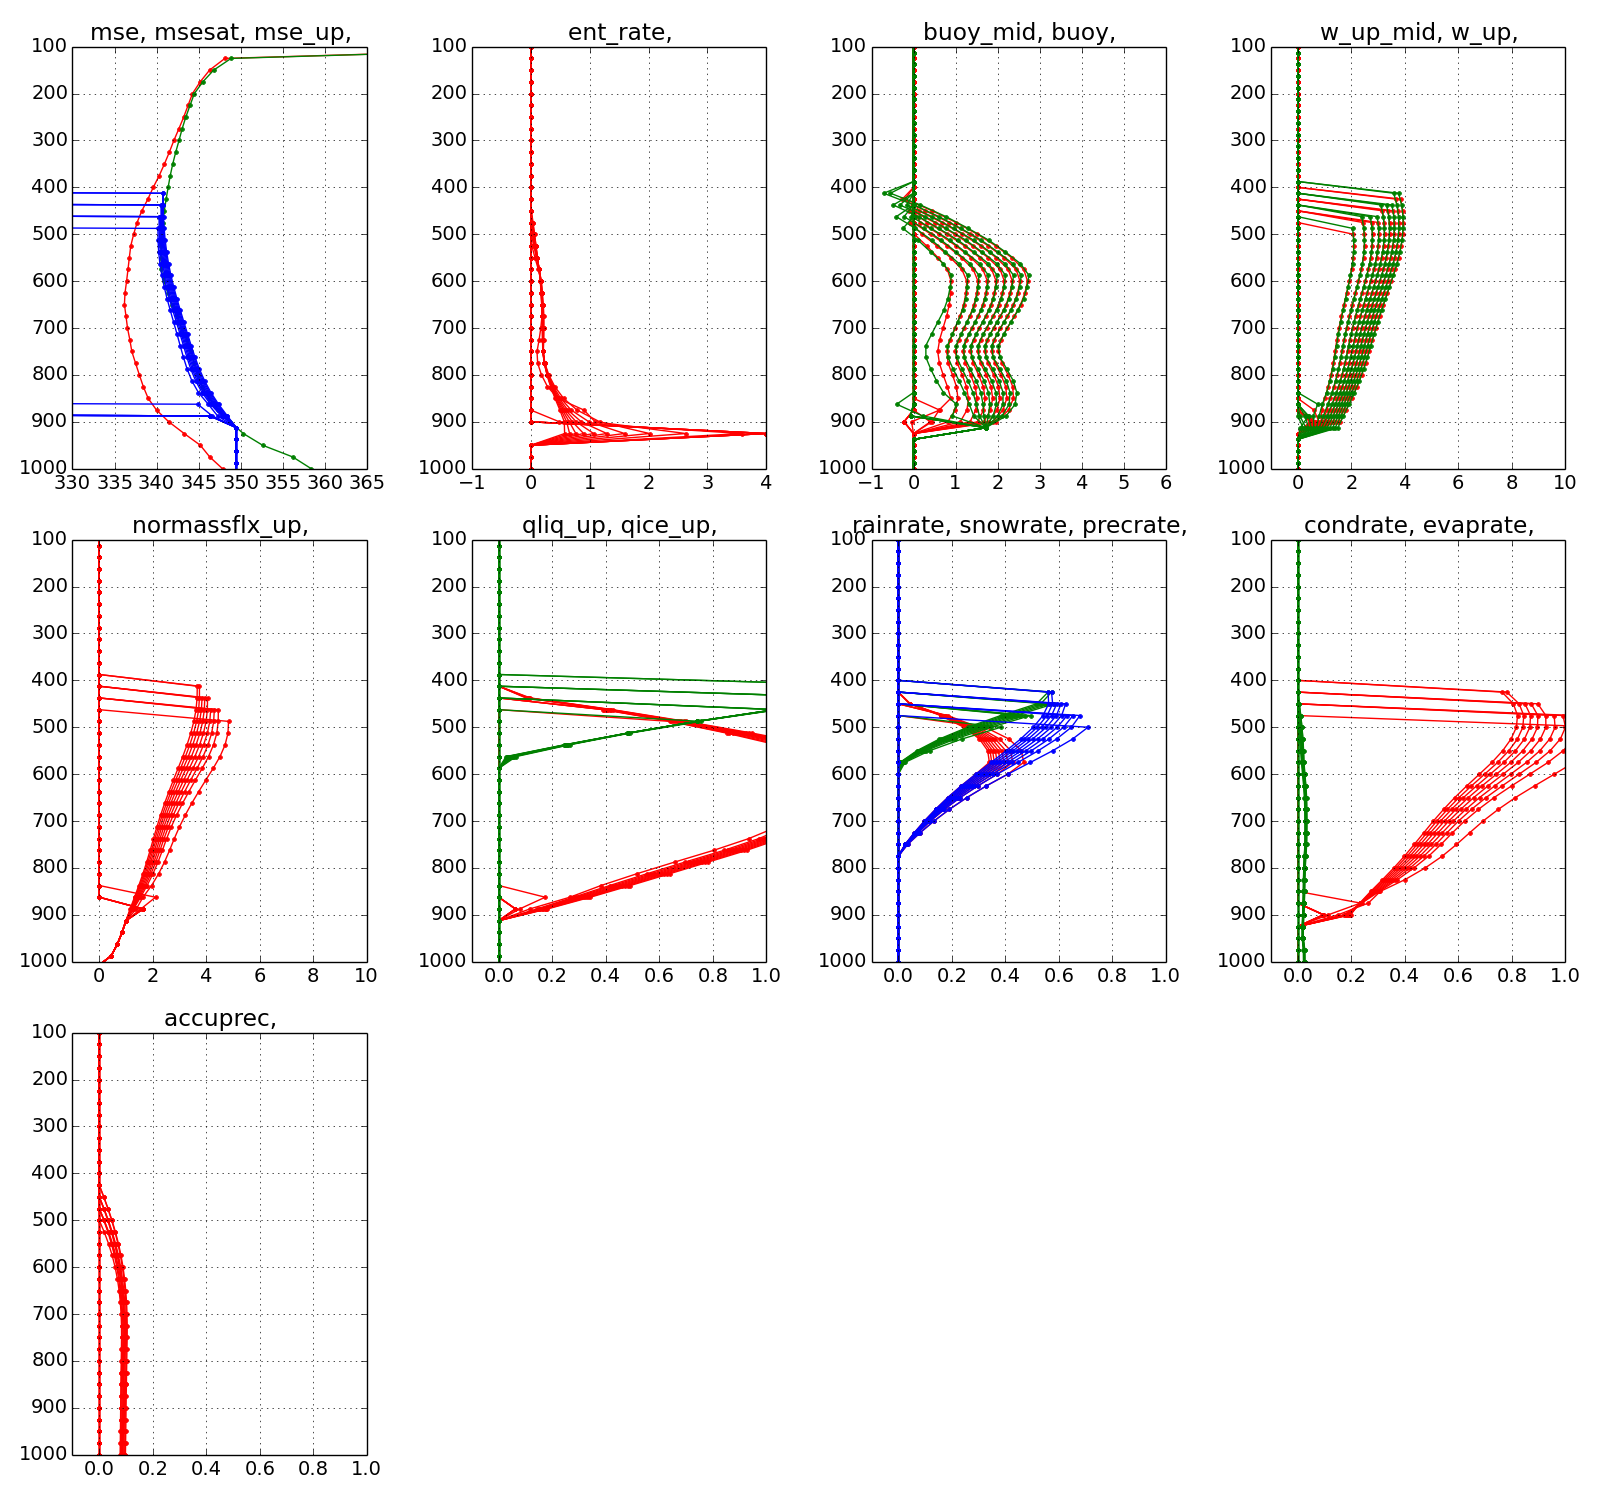
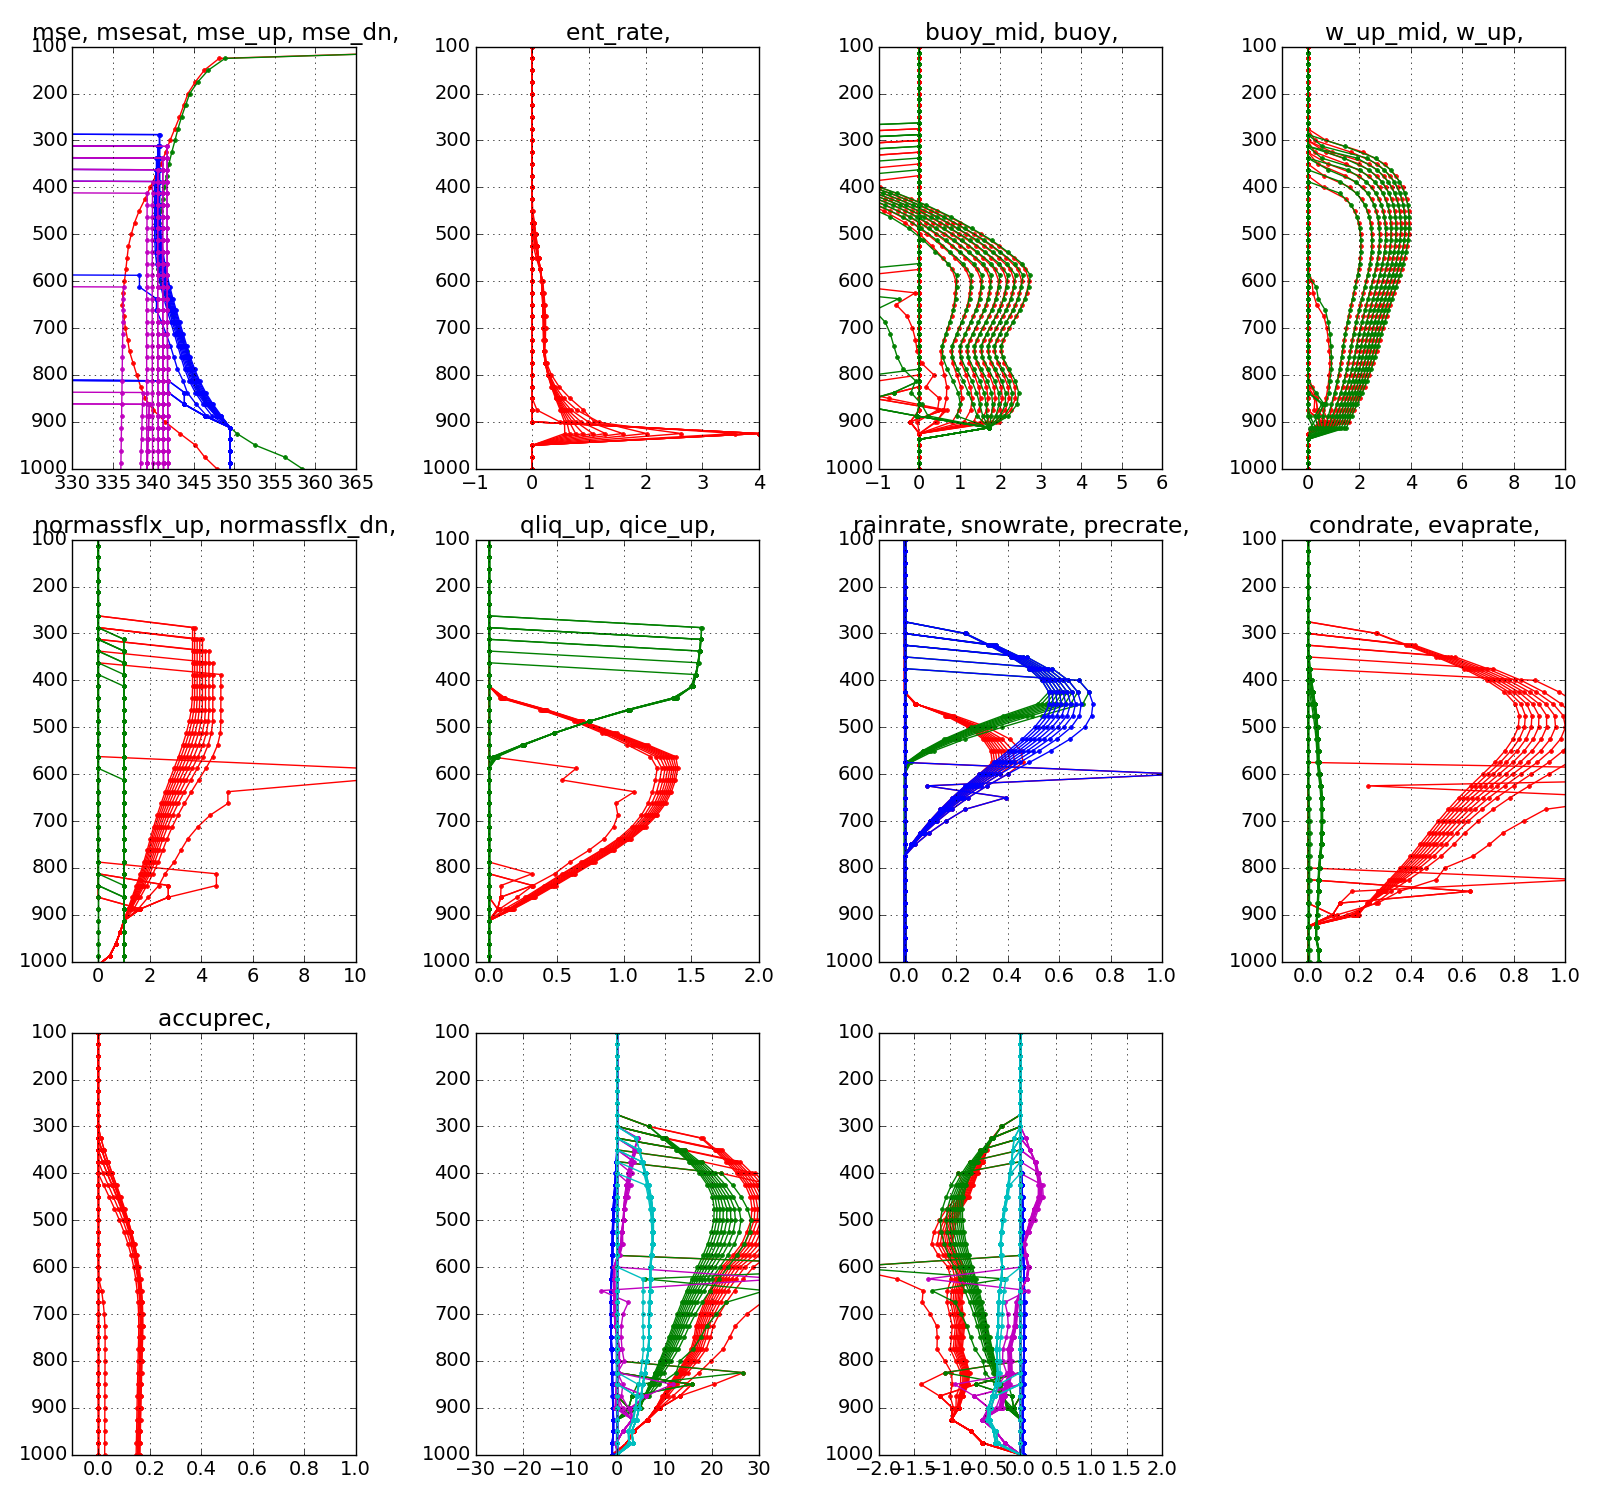
modify evaprate, add tend_down

diff --git a/run/plot/pic_plumes.py b/run/plot/pic_plumes.py
@@ -27,21 +27,21 @@ def fncread(fn,var):
 #===============================================================================
 if __name__ == '__main__':
 
-    pin = '/disk2/yhy/Research/ECP/conv_scp/'
+    pin = '/Users/Oscar/yhy/Research/ECP/conv_scp/'
     fin = pin+'run/scmdiag-output.nc'
 
     lev  = fncread(fin, 'p')[0,:,0]/100.0
     levp = fncread(fin, 'pint')[0,:,0]/100.0
 
-    cstr = ['r','g','b']    
+    cstr = ['r','g','b','m','c']    
     plt.figure(1, figsize=(16,15))
 
-    for i in range(1,10):
+    for i in range(1,12):
         plt.subplot(3,4,i)
         if i==1: 
-            var  = ['mse', 'msesat', 'mse_up']
-            fac  = [1/1000.0, 1/1000.0, 1/1000.0]
-            icol = [0, 0, -1]
+            var  = ['mse', 'msesat', 'mse_up', 'mse_dn']
+            fac  = [1/1000.0, 1/1000.0, 1/1000.0, 1/1000.0]
+            icol = [0, 0, -1, -1]
             xlim = [330, 365]
         if i==2: 
             var  = ['ent_rate']
@@ -59,15 +59,15 @@ if __name__ == '__main__':
             icol = [-1, -1]
             xlim = [-1, 10]
         if i==5: 
-            var  = ['normassflx_up']
-            fac  = [1]
-            icol = [-1]
+            var  = ['normassflx_up','normassflx_dn']
+            fac  = [1,1]
+            icol = [-1,-1]
             xlim = [-1, 10]
         if i==6: 
             var  = ['qliq_up','qice_up']
-            fac  = [1e5,1e5]
-            icol = [-1,-1]
-            xlim = [-0.1, 1]
+            fac  = [1e5,1e5,1e5]
+            icol = [-1,-1,-1]
+            xlim = [-0.1, 2]
         if i==7: 
             var  = ['rainrate','snowrate','precrate']
             fac  = [1e5,1e5,1e5]
@@ -83,6 +83,16 @@ if __name__ == '__main__':
             fac  = [10]
             icol = [-1,-1]
             xlim = [-0.1, 1]
+        if i==10: 
+            var  = ['stend','stendcond','stendevap','stendtranup','stendtrandn']
+            fac  = [1,1,1,1,1]
+            icol = [-1,-1,-1,-1,-1]
+            xlim = [-30, 30]
+        if i==11: 
+            var  = ['qtend','qtendcond','qtendevap','qtendtranup','qtendtrandn']
+            fac  = [1e5,1e5,1e5,1e5,1e5]
+            icol = [-1,-1,-1,-1,-1]
+            xlim = [-2, 2]
 
 
         tstr = ''
@@ -98,7 +108,8 @@ if __name__ == '__main__':
                     plt.plot(data[:,k]*fac[ivar], piclev, '-'+cstr[ivar]+'.')
             else:
                 plt.plot(data[:,0]*fac[ivar], piclev, '-'+cstr[ivar]+'.')
-        plt.title(tstr)
+        if i in range(1,10):
+            plt.title(tstr)
         plt.axis([xlim[0], xlim[1], 100,1000])
         plt.grid('on')
         plt.gca().invert_yaxis()
